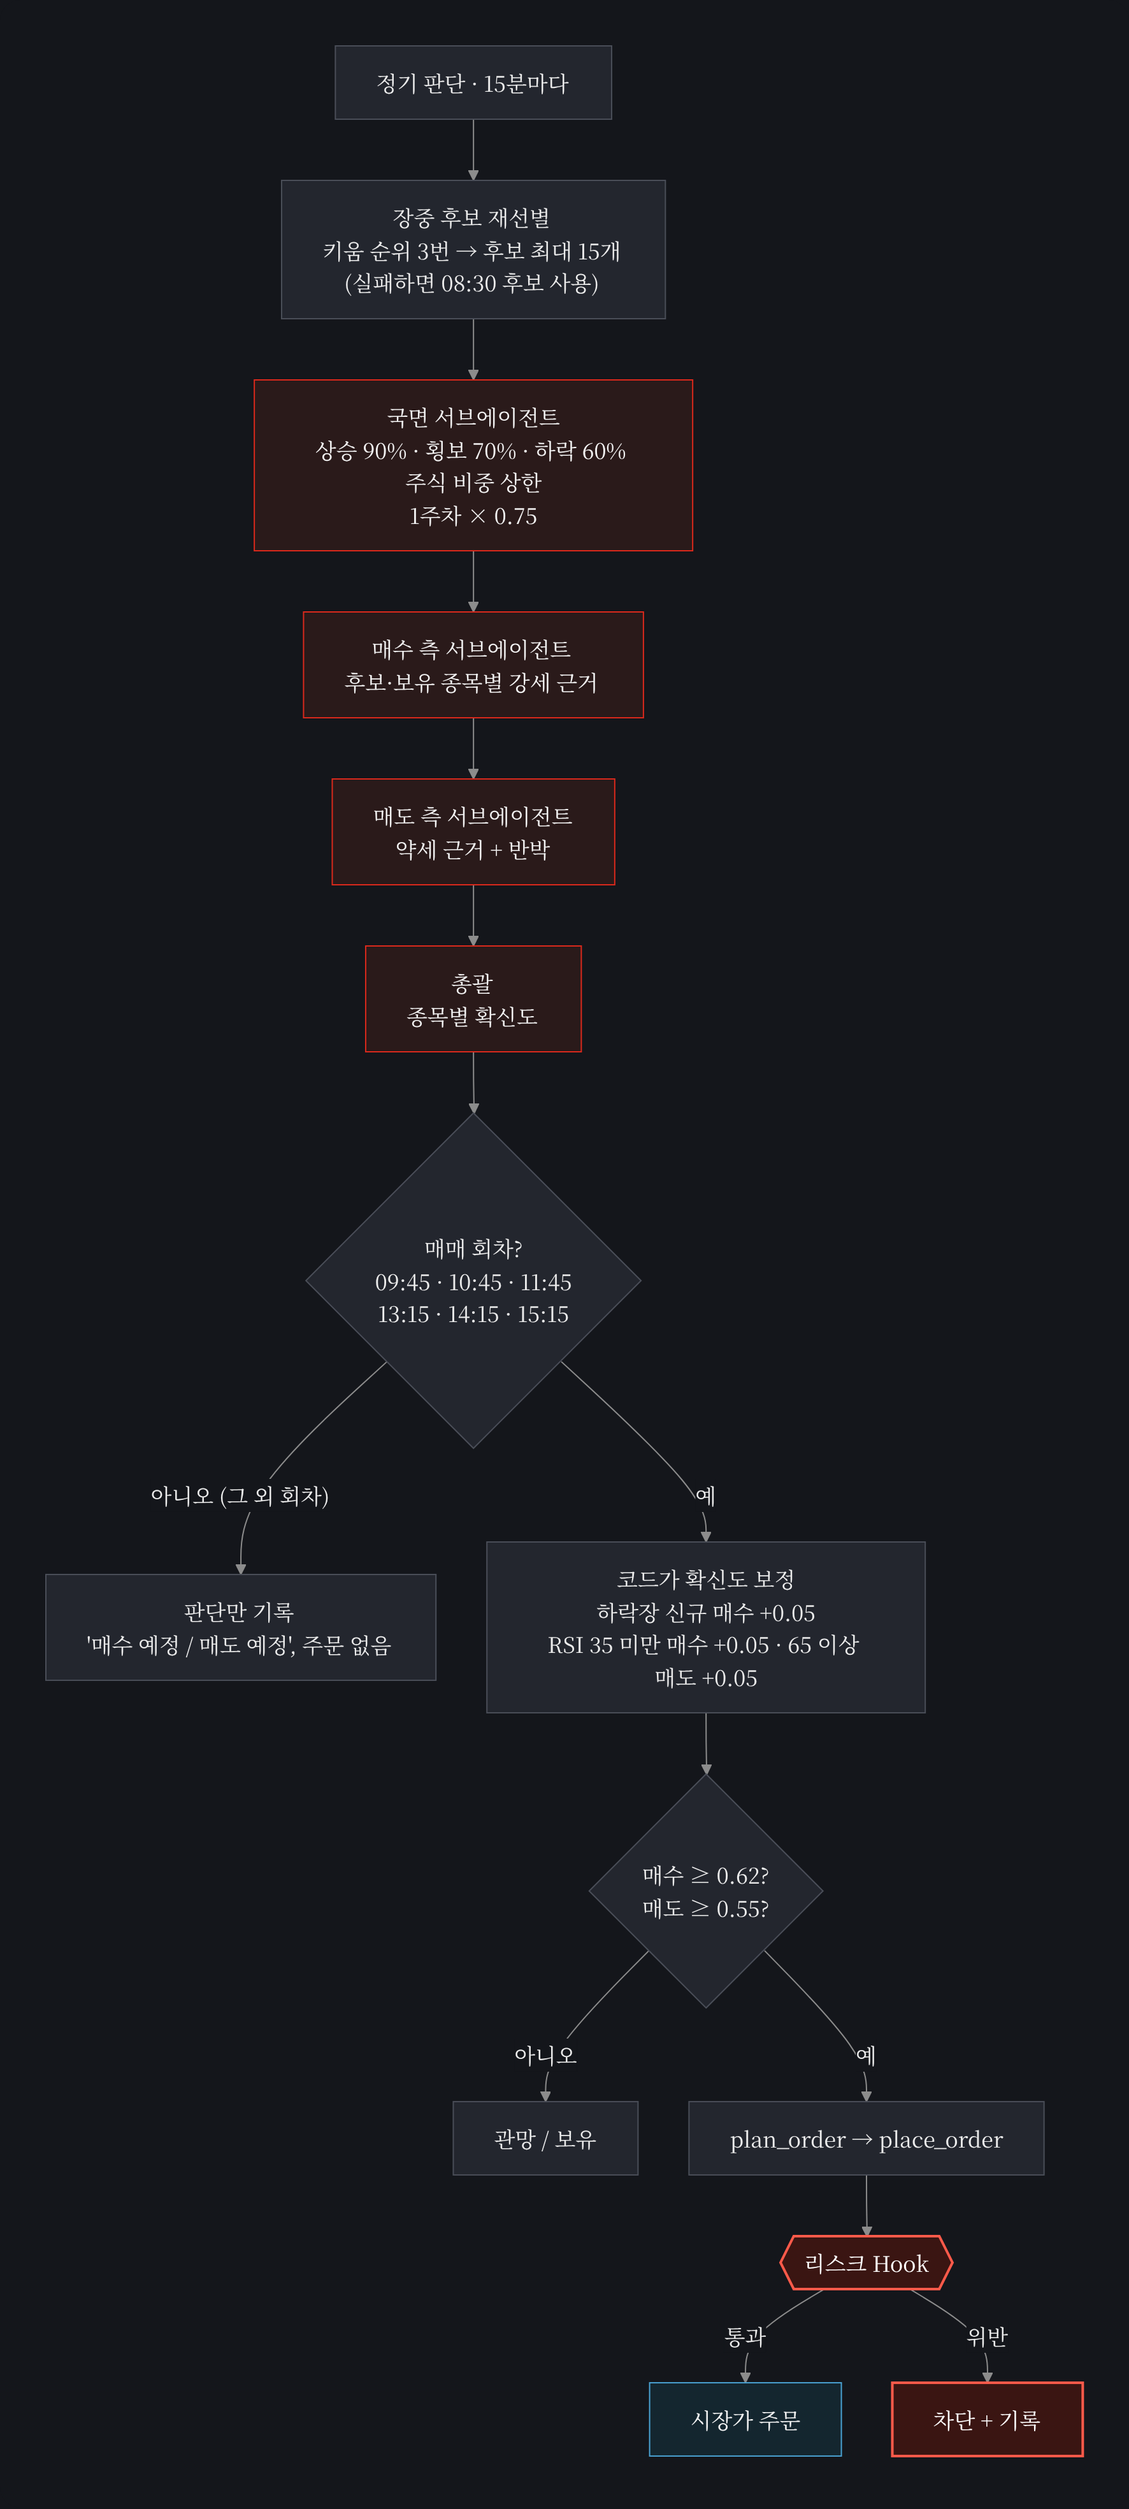
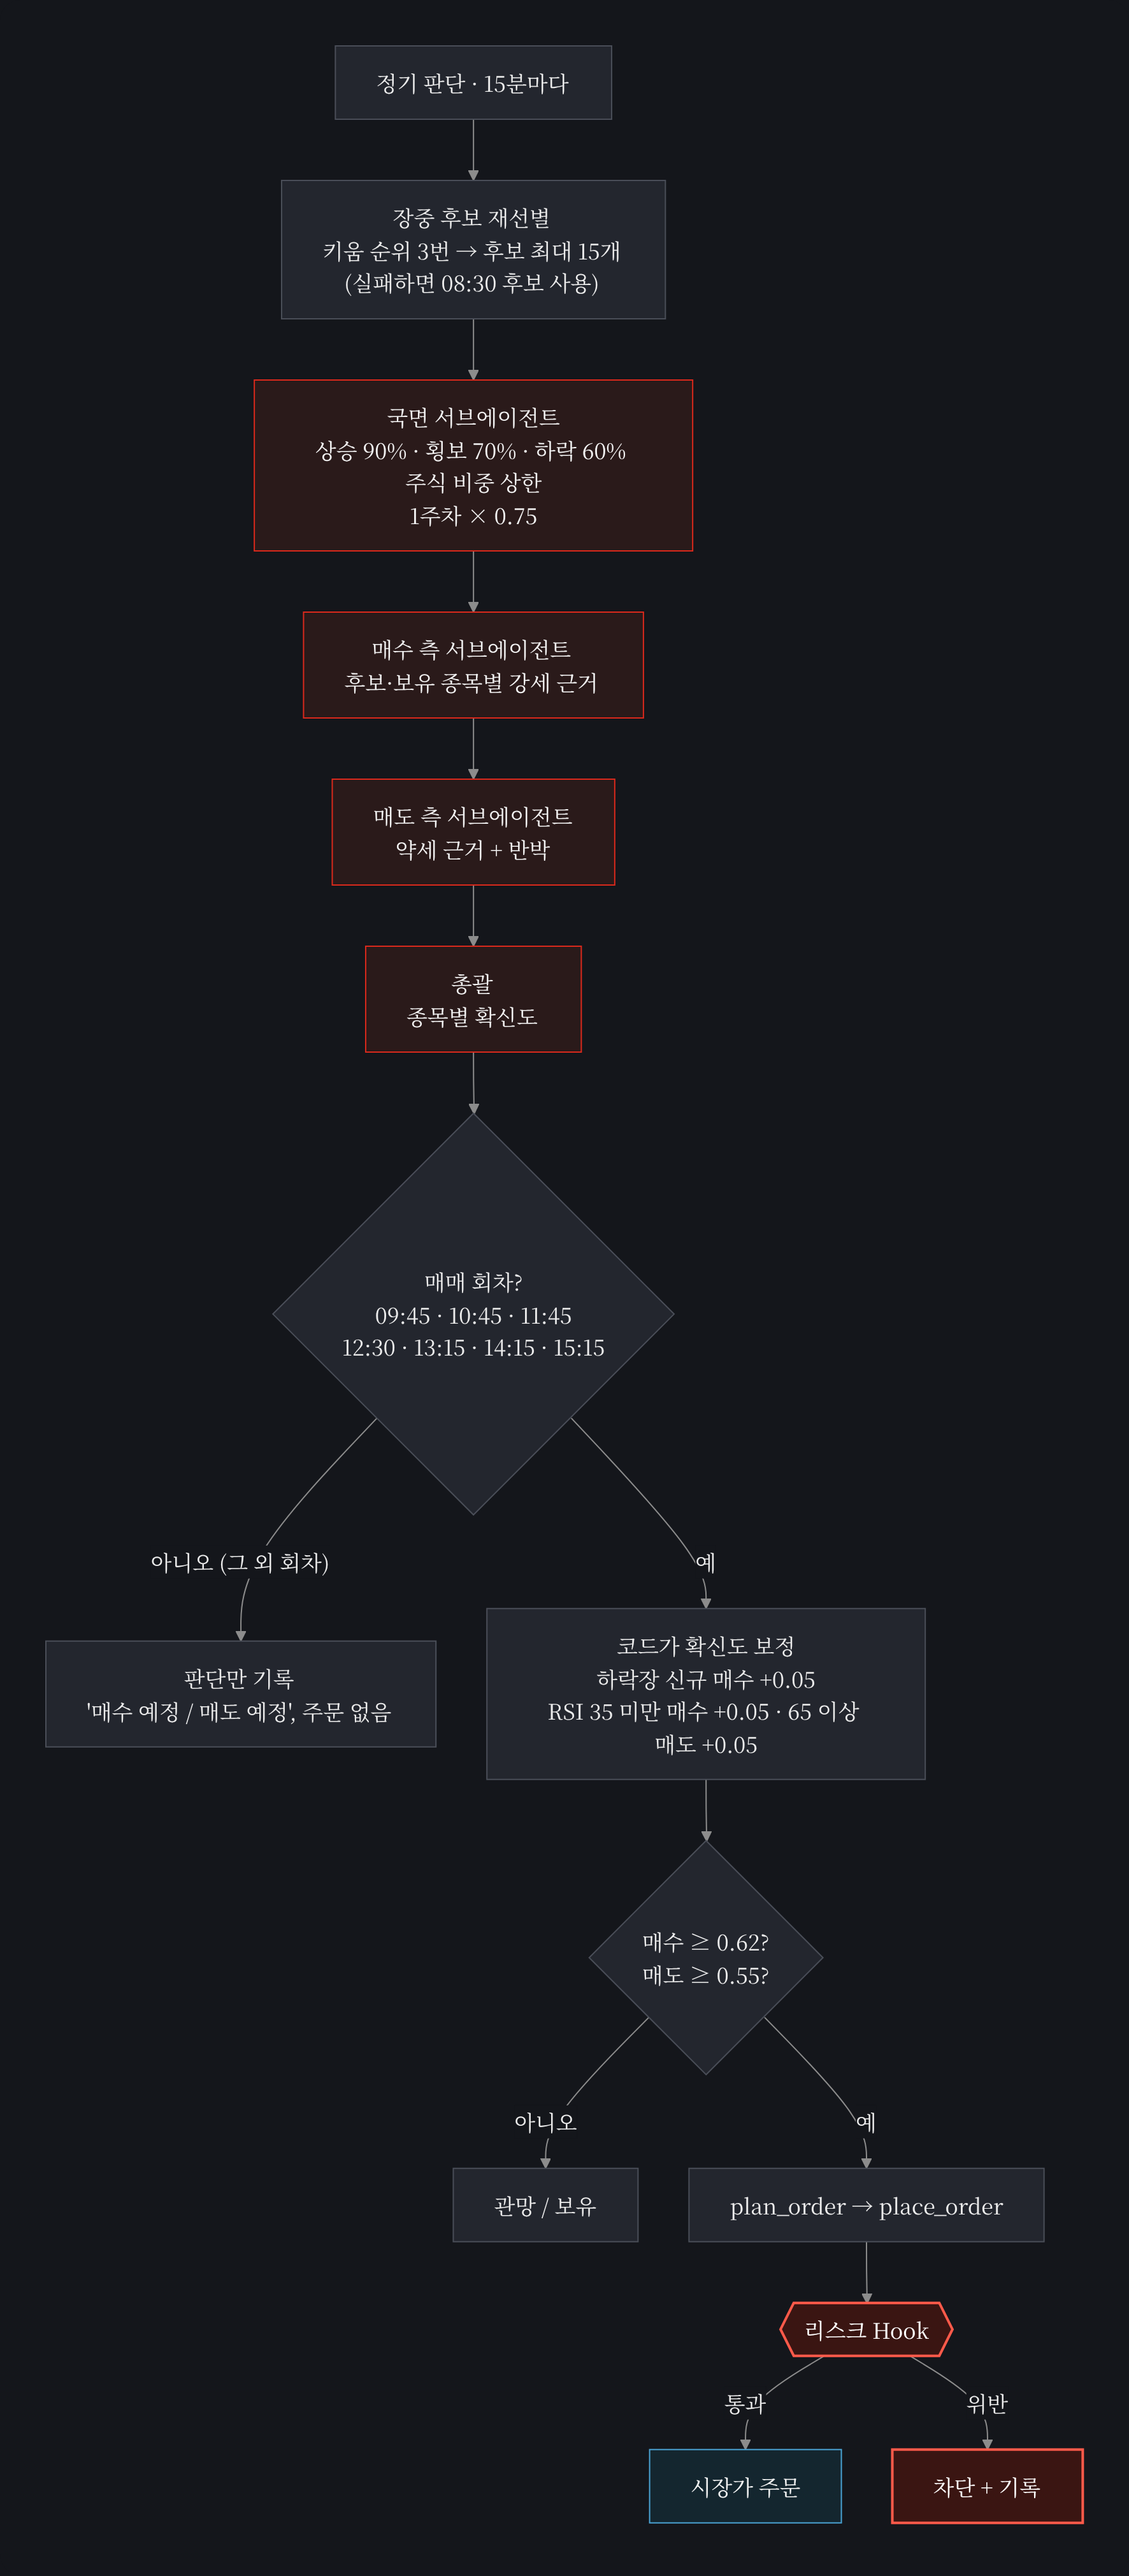
Docs: 12:30 trading slot in instructions, READMEs and the decision diagram
Claude-Session: https://claude.ai/code/session_01ATjxQjXT9xLkTvZTtNpqzA

diff --git a/CLAUDE.md b/CLAUDE.md
@@ -45,7 +45,7 @@ reports/    보고서 PDF, drafts/ = 주간 회고 에이전트가 쓴 초안
 
 ### 실행 일정 (10-29 결정: 하루 1번 → 2번 + 장중 감시)
 
-평일 08:25 잔고 수집 시작 · 08:30 준비 · 08:30~15:20 1분 감시(손절·익절 걸리면 매도 전용 실행. 11-04 09:05→08:30, 장 전 매도는 09:00 동시호가로 체결되고 09:05 뒤 남아 있으면 한 번 더. 11-04 오후 5분→1분, "같은 종목 하루 1번" 제한 폐기 → 같은 매수 건은 실행 뒤 10분 지나도 남아 있으면 다시) · **09:30~15:15 15분마다 판단, 주문은 09:45·10:45·11:45·13:15·14:15·15:15 6번만** (11-04 추가: 매매 회차가 실행되지 않았으면 다음 판단 회차가 대신 매매 `C.missed_trade`, 매매 회차는 앞 실행이 끝날 때까지 최대 10분 대기) (11-04 오후 정각·30분 회차를 피해 조정, 마지막은 15:15) (11-04 매시 30분에서 변경: 장 초반 변동·점심 피하고 마감 직전 포함) (11-02 하루 2번 → 3번 → 11-03 판단 30분마다 · 매매 매시 → 11-04 판단 15분마다 (하루 23번, 토큰 약 2배). 작업 `Hynix298-decide` 하나가 반복, `run.py` 가 `params.schedule.trade_times` 로 매매/판단 갱신(view)을 가름) · 15:45 마감 기록 · **평일 16:00 기준값 자동 조정** (11-02 화·수·목 추가 → 11-03 매일). 토 10:00 주간 회고.
+평일 08:25 잔고 수집 시작 · 08:30 준비 · 08:30~15:20 1분 감시(손절·익절 걸리면 매도 전용 실행. 11-04 09:05→08:30, 장 전 매도는 09:00 동시호가로 체결되고 09:05 뒤 남아 있으면 한 번 더. 11-04 오후 5분→1분, "같은 종목 하루 1번" 제한 폐기 → 같은 매수 건은 실행 뒤 10분 지나도 남아 있으면 다시) · **09:30~15:15 15분마다 판단, 주문은 09:45·10:45·11:45·12:30·13:15·14:15·15:15 7번만** (11-05 12:30 추가: 점심 1시간 30분 공백 메움) (11-04 추가: 매매 회차가 실행되지 않았으면 다음 판단 회차가 대신 매매 `C.missed_trade`, 매매 회차는 앞 실행이 끝날 때까지 최대 10분 대기) (11-04 오후 정각·30분 회차를 피해 조정, 마지막은 15:15) (11-04 매시 30분에서 변경: 장 초반 변동·점심 피하고 마감 직전 포함) (11-02 하루 2번 → 3번 → 11-03 판단 30분마다 · 매매 매시 → 11-04 판단 15분마다 (하루 23번, 토큰 약 2배). 작업 `Hynix298-decide` 하나가 반복, `run.py` 가 `params.schedule.trade_times` 로 매매/판단 갱신(view)을 가름) · 15:45 마감 기록 · **평일 16:00 기준값 자동 조정** (11-02 화·수·목 추가 → 11-03 매일). 토 10:00 주간 회고.
 계획서의 "장 시작 전 1회"에서 바꾼 것이므로 첫 주간 보고서에 변경 이유를 적을 것.
 손절 주문도 코드가 직접 내지 않고 에이전트 + Hook을 거침 (AI 주문 규정).
 

diff --git a/README.md b/README.md
@@ -27,7 +27,7 @@ Team *Hynix 298F* · 2026 Navist UOStock AI Auto-Trading Mock Investment Competi
 | **Competition** | Korean equities mock trading, Nov 2 – 27, 2026 · one team account · ₩50M |
 | **Rule** | The AI must make every decision and place every order itself. No manual orders, no human approval of orders |
 | **Approach** | LLMs debate and score conviction. Python sizes the order, a Hook can veto it |
-| **Cadence** | A decision every 15 min (09:30 – 15:15), orders in 6 of them; a missed trading slot is made up by the next run |
+| **Cadence** | A decision every 15 min (09:30 – 15:15), orders in 7 of them; a missed trading slot is made up by the next run |
 | **Result** | 🏁 After the competition (Nov 29, 2026) |
 
 ## Why this design
@@ -101,7 +101,7 @@ Every change and rejection shows up on the dashboard (Feedback Loop).
 | 08:30 | `prep` — account, KRX data, news → briefing | – |
 | 08:55 → | Balance snapshot every minute → Supabase | – |
 | 08:30 – 15:20 | `monitor` — stop / target / holding days every minute | only when hit |
-| **09:45, 10:45, 11:45, 13:15, 14:15, 15:15** | `decide` — re-screen → debate → **orders** | ✓ |
+| **09:45, 10:45, 11:45, 12:30, 13:15, 14:15, 15:15** | `decide` — re-screen → debate → **orders** | ✓ |
 | the other 15-min slots, 09:30 – 15:00 | `view` — same debate, **no orders**, refreshes the dashboard | ✓ |
 | 15:45 | `close` — record today's equity | – |
 | 16:00 | `tune` — threshold self-tuning | ✓ |

diff --git a/README.ko.md b/README.ko.md
@@ -27,7 +27,7 @@
 | **대회** | 국내 주식 모의투자, 2026.11.02 – 11.27 · 팀 계좌 1개 · 5,000만 원 |
 | **규칙** | 판단과 주문은 AI가 직접. 사람의 수동 주문·주문 승인 금지 |
 | **접근** | LLM은 토론하고 확신도만 매김. 수량은 Python이 계산하고, Hook이 주문을 막을 수 있음 |
-| **주기** | 15분마다 판단 (09:30 – 15:15), 그중 6번만 주문. 매매 회차를 놓치면 다음 회차가 대신 |
+| **주기** | 15분마다 판단 (09:30 – 15:15), 그중 7번만 주문. 매매 회차를 놓치면 다음 회차가 대신 |
 | **결과** | 🏁 대회 종료 후 (2026.11.29) |
 
 ## 왜 이렇게 만들었나
@@ -101,7 +101,7 @@ LLM에게 매매를 통째로 맡기면 두 가지가 문제입니다.
 | 08:30 | `prep` — 계좌, KRX 데이터, 뉴스 → 브리핑 | – |
 | 08:55 → | 잔고 스냅샷 1분마다 → Supabase | – |
 | 08:30 – 15:20 | `monitor` — 1분마다 손절·익절·보유일 | 걸릴 때만 |
-| **09:45, 10:45, 11:45, 13:15, 14:15, 15:15** | `decide` — 재선별 → 토론 → **주문** | ✓ |
+| **09:45, 10:45, 11:45, 12:30, 13:15, 14:15, 15:15** | `decide` — 재선별 → 토론 → **주문** | ✓ |
 | 나머지 15분 회차 (09:30 – 15:00) | `view` — 같은 토론, **주문 없음**, 대시보드 갱신 | ✓ |
 | 15:45 | `close` — 오늘 자산 기록 | – |
 | 16:00 | `tune` — 기준값 자동 조정 | ✓ |

diff --git a/agent/README.md b/agent/README.md
@@ -8,7 +8,7 @@ The trading agent. **The agent proposes, the rules decide**: Claude Code reads t
 |---|---|---|
 | 08:30 | `prep` — account + data prep → `work/briefing.json` | no |
 | 08:30–15:20 | `monitor` — every 5 min, checks stop / take-profit / max holding days; launches an `exit` run when hit | only when triggered |
-| 09:30–15:15, every 15 min | `decide` — intraday re-screen → regime → bull ⇄ bear debate → lead agent decides → orders only in `params.schedule.trade_times` (09:45, 10:45, 11:45, 13:15, 14:15, 15:15); other slots run as `view` (same debate, no orders) | yes |
+| 09:30–15:15, every 15 min | `decide` — intraday re-screen → regime → bull ⇄ bear debate → lead agent decides → orders only in `params.schedule.trade_times` (09:45, 10:45, 11:45, 12:30, 13:15, 14:15, 15:15); other slots run as `view` (same debate, no orders) | yes |
 | 15:45 | `close` — record today's equity, publish to dashboard | no |
 | 16:00 | `tune` — agent proposes 0–2 threshold changes; `src/tuning.py` applies only those inside `config/tuning.json` and commits | yes |
 | Sat 10:00 | `review` — weekly review + report draft | yes |

diff --git a/agent/CLAUDE.md b/agent/CLAUDE.md
@@ -13,7 +13,7 @@
 ## 실행 종류
 실행 프롬프트가 어떤 실행인지 알려줍니다.
 
-### A. 정기 판단 (매매 회차: 09:45 · 10:45 · 11:45 · 13:15 · 14:15 · 15:15)
+### A. 정기 판단 (매매 회차: 09:45 · 10:45 · 11:45 · 12:30 · 13:15 · 14:15 · 15:15)
 1. `get_briefing`, `get_account` 로 상황을 봅니다.
 2. **regime** 서브에이전트에게 국면을 묻고 → `set_regime` 으로 기록합니다.
 3. 대상 = 보유 종목 전체 + 후보 종목. 둘 다 없으면 8로 갑니다.
